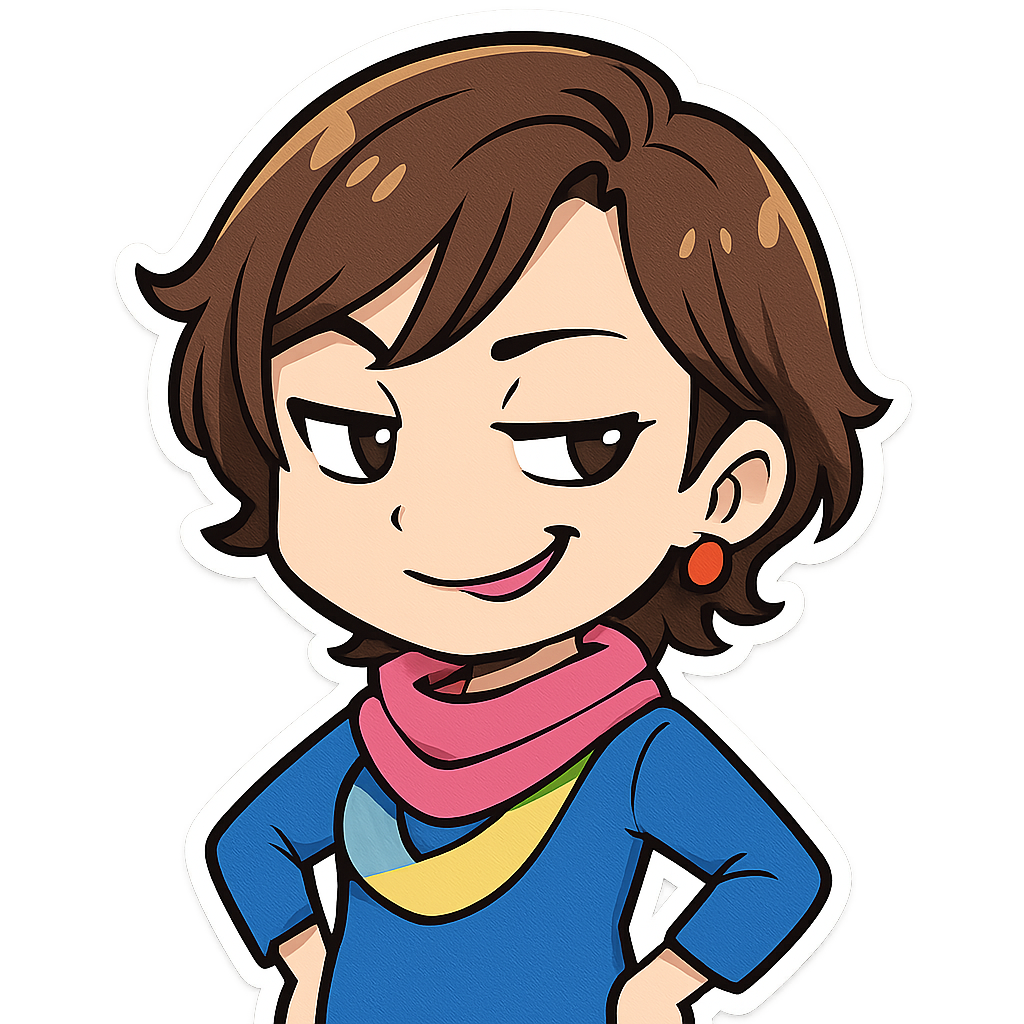
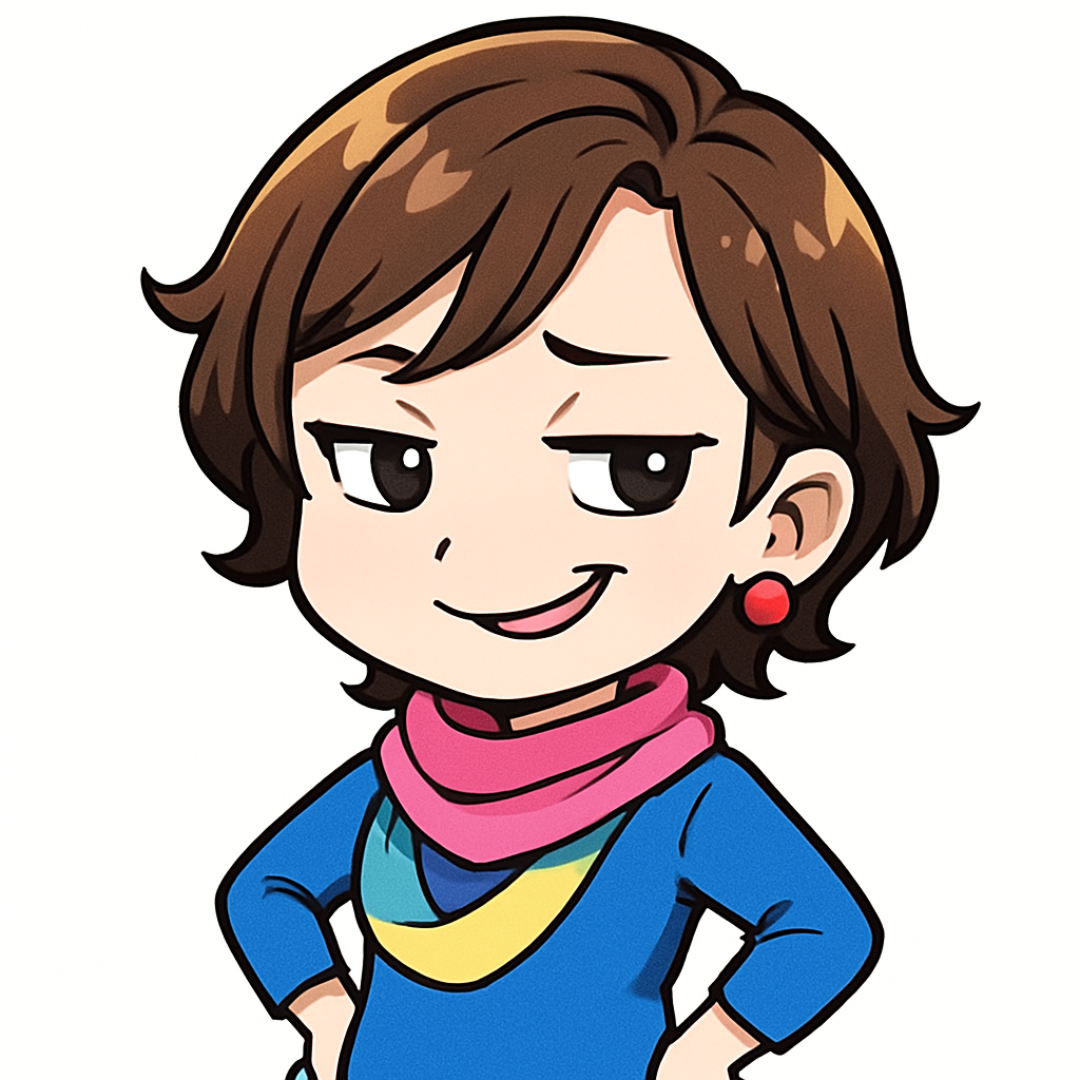
Add files via upload

Changed region(s): [[0.125, 0.0, 0.9062, 1.0]]

diff --git a/index.html b/index.html
@@ -487,39 +487,6 @@
 
         <section id="works" class="works">
             <h2 class="section-title">Works</h2>
-            
-            <div class="works-category">
-                <h3>Udemy</h3>
-                <p style="text-align: center; margin-bottom: 1rem; color: white; text-shadow: 1px 1px 2px rgba(0,0,0,0.3);">AIを活用したコンテンツ作成の方法などをUdemy講座にしています</p>
-                <p style="text-align: center; margin-bottom: 2rem; color: white; text-shadow: 1px 1px 2px rgba(0,0,0,0.3); font-size: 0.9em;">たまに割引クーポンを発行することがあります。クーポン情報はＸでお知らせしています。</p>
-                <div class="works-grid">
-                    <div class="work-item">
-                        <img src="images/novelgame.jpg" alt="ビジュアルノベルゲーム制作講座" class="work-image">
-                        <h4>バイブコーディングで実践！プログラミング知識ゼロでつくるビジュアルノベルゲーム制作講座</h4>
-                        <a href="https://www.udemy.com/course/novelgeme/?referralCode=700ABDDAD5172070B0DE" target="_blank">詳細を見る</a>
-                    </div>
-                    <div class="work-item">
-                        <img src="images/canvamovie.png" alt="Canva動画作成講座" class="work-image">
-                        <h4>【初心者向】Canvaでつくる！はじめての ＰＲ動画作成講座</h4>
-                        <a href="https://www.udemy.com/course/canva-douga/?referralCode=306A2AE06252D8257501" target="_blank">詳細を見る</a>
-                    </div>
-                    <div class="work-item">
-                        <img src="images/stamp.png" alt="スタンプ画像作成講座" class="work-image">
-                        <h4>ChatGPTで思い通りのスタンプ画像作成！LINE/Discord対応 オリジナル画像生成講座</h4>
-                        <a href="https://www.udemy.com/course/chatgptlinediscord/?referralCode=F4408B91D19F235ADDF7" target="_blank">詳細を見る</a>
-                    </div>
-                    <div class="work-item">
-                        <img src="images/home.png" alt="子どもの自己肯定感講座" class="work-image">
-                        <h4>褒め下手でも大丈夫！ChatGPTで子どもの自己肯定感＆自己効力感を育むAI活用講座</h4>
-                        <a href="https://www.udemy.com/course/homekotoba/?referralCode=83AB1E2BE0B3C6BC718C" target="_blank">詳細を見る</a>
-                    </div>
-                    <div class="work-item">
-                        <img src="images/ehon.png" alt="電子絵本作成講座" class="work-image">
-                        <h4>子どもの未来を創る電子絵本作成講座</h4>
-                        <a href="https://www.udemy.com/course/denshiehon/?referralCode=46A361753BE3BC3B885C" target="_blank">詳細を見る</a>
-                    </div>
-                </div>
-            </div>
 
             <div class="works-category">
                 <h3>ミニゲーム</h3>
@@ -549,6 +516,44 @@
                         <img src="images/sugoroku.png" alt="人生すごろく『運命のルーレット』" class="work-image">
                         <h4>人生すごろく<br>『運命のルーレット』</h4>
                         <a href="https://turu00260026.github.io/sugoroku/" target="_blank">ゲームで遊ぶ</a>
+                    </div>
+                    <div class="work-item">
+                        <img src="images/Shojo's_gift_delivery.png" alt="Shojo's gift delivery" class="work-image">
+                        <h4>配達ゲーム<br>『Shojo's gift delivery』</h4>
+                        <a href="https://turu00260026.github.io/Shojo-s_gift_delivery/" target="_blank">ゲームで遊ぶ</a>
+                    </div>
+                </div>
+            </div>
+
+            <div class="works-category">
+                <h3>Udemy</h3>
+                <p style="text-align: center; margin-bottom: 1rem; color: white; text-shadow: 1px 1px 2px rgba(0,0,0,0.3);">AIを活用したコンテンツ作成の方法などをUdemy講座にしています</p>
+                <p style="text-align: center; margin-bottom: 2rem; color: white; text-shadow: 1px 1px 2px rgba(0,0,0,0.3); font-size: 0.9em;">たまに割引クーポンを発行することがあります。クーポン情報はＸでお知らせしています。</p>
+                <div class="works-grid">
+                    <div class="work-item">
+                        <img src="images/novelgame.jpg" alt="ビジュアルノベルゲーム制作講座" class="work-image">
+                        <h4>バイブコーディングで実践！プログラミング知識ゼロでつくるビジュアルノベルゲーム制作講座</h4>
+                        <a href="https://www.udemy.com/course/novelgeme/?referralCode=700ABDDAD5172070B0DE" target="_blank">詳細を見る</a>
+                    </div>
+                    <div class="work-item">
+                        <img src="images/canvamovie.png" alt="Canva動画作成講座" class="work-image">
+                        <h4>【初心者向】Canvaでつくる！はじめての ＰＲ動画作成講座</h4>
+                        <a href="https://www.udemy.com/course/canva-douga/?referralCode=306A2AE06252D8257501" target="_blank">詳細を見る</a>
+                    </div>
+                    <div class="work-item">
+                        <img src="images/stamp.png" alt="スタンプ画像作成講座" class="work-image">
+                        <h4>ChatGPTで思い通りのスタンプ画像作成！LINE/Discord対応 オリジナル画像生成講座</h4>
+                        <a href="https://www.udemy.com/course/chatgptlinediscord/?referralCode=F4408B91D19F235ADDF7" target="_blank">詳細を見る</a>
+                    </div>
+                    <div class="work-item">
+                        <img src="images/home.png" alt="子どもの自己肯定感講座" class="work-image">
+                        <h4>褒め下手でも大丈夫！ChatGPTで子どもの自己肯定感＆自己効力感を育むAI活用講座</h4>
+                        <a href="https://www.udemy.com/course/homekotoba/?referralCode=83AB1E2BE0B3C6BC718C" target="_blank">詳細を見る</a>
+                    </div>
+                    <div class="work-item">
+                        <img src="images/ehon.png" alt="電子絵本作成講座" class="work-image">
+                        <h4>子どもの未来を創る電子絵本作成講座</h4>
+                        <a href="https://www.udemy.com/course/denshiehon/?referralCode=46A361753BE3BC3B885C" target="_blank">詳細を見る</a>
                     </div>
                 </div>
             </div>
